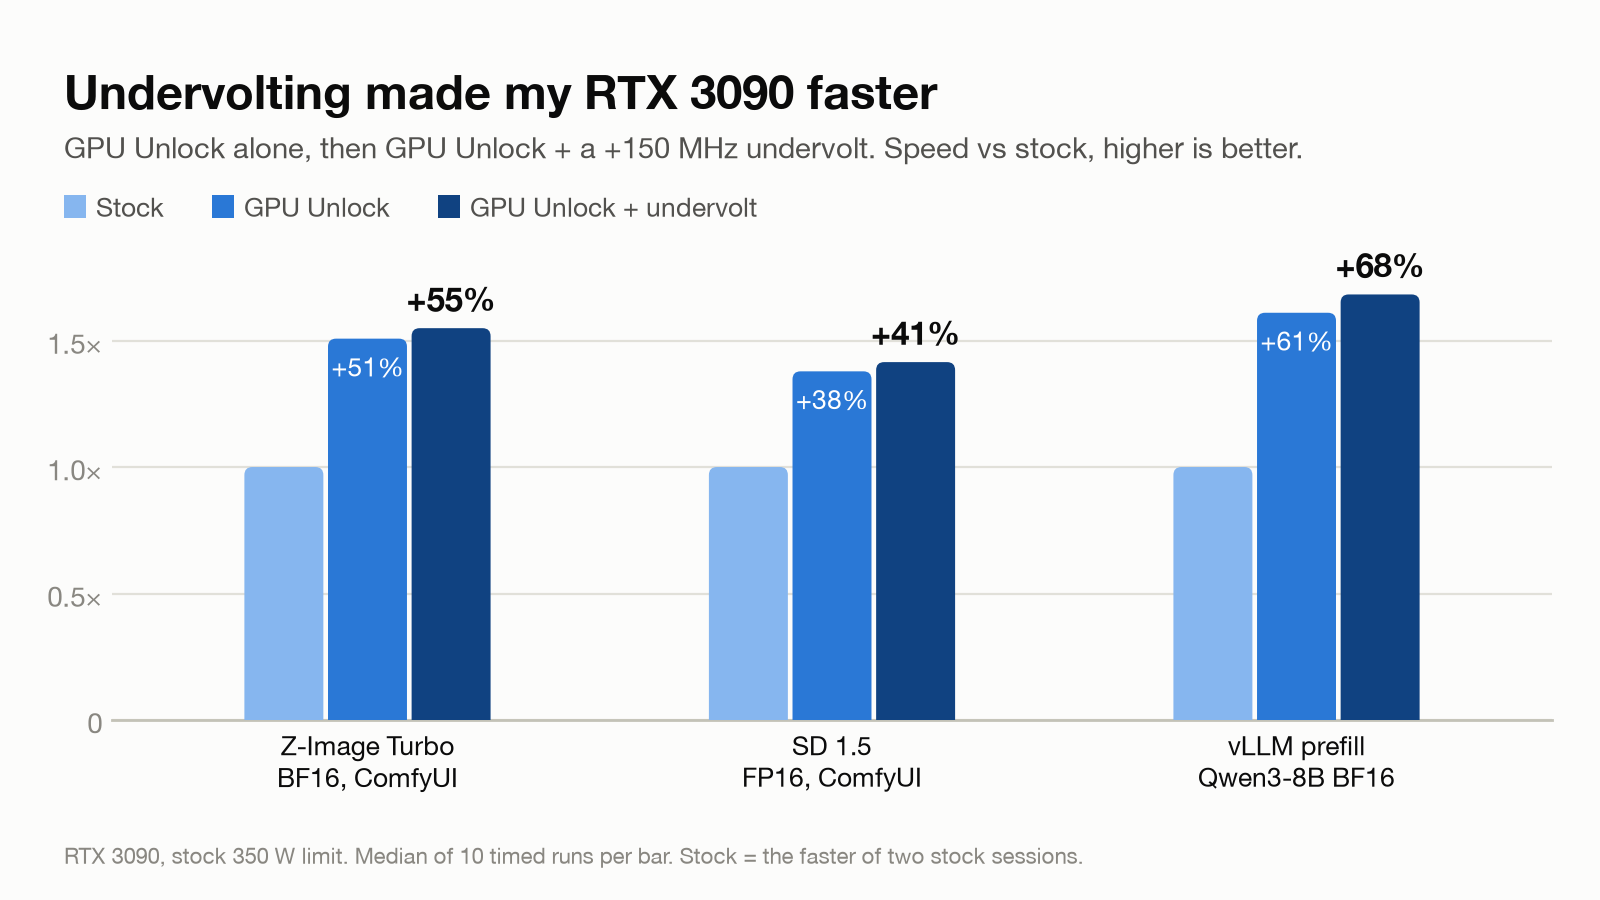
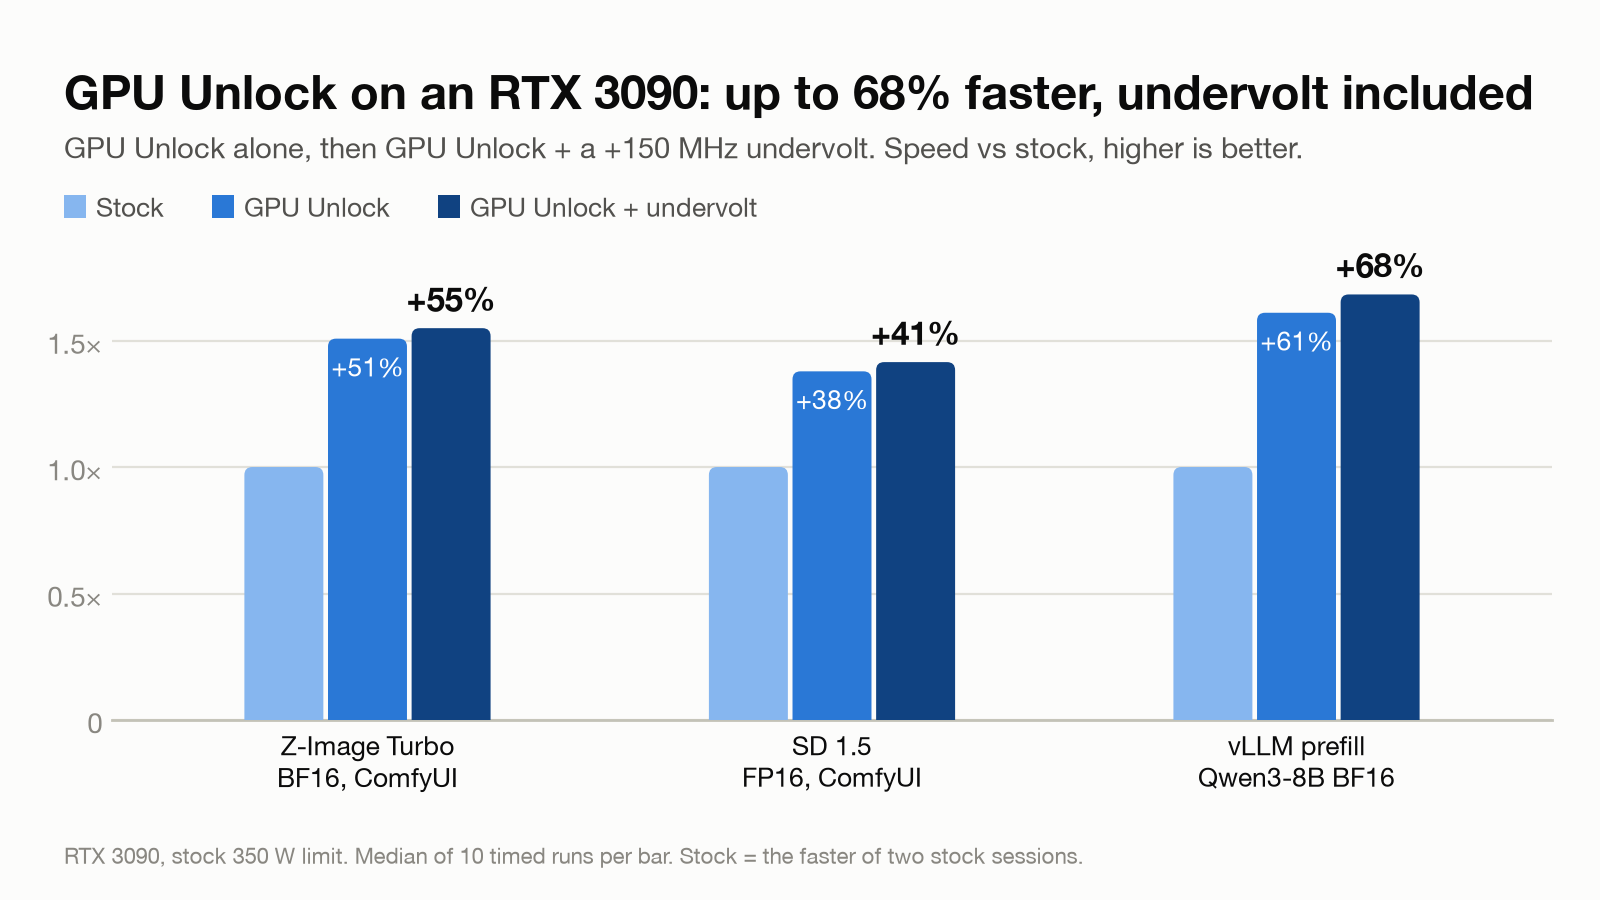
lead with the unlock: retitle the write-up and headline chart

Changed region(s): [[0.0312, 0.0622, 0.9688, 0.1244]]

diff --git a/charts/make_charts.py b/charts/make_charts.py
@@ -119,7 +119,7 @@ def pct(x):
 
 
 def headline(data):
-    fig = frame("Undervolting made my RTX 3090 faster",
+    fig = frame("GPU Unlock on an RTX 3090: up to 68% faster, undervolt included",
                 "GPU Unlock alone, then GPU Unlock + a +150 MHz undervolt. Speed vs stock, higher is better.",
                 "RTX 3090, stock 350 W limit. Median of 10 timed runs per bar. Stock = the faster of two stock sessions.")
     ax = fig.add_axes([0.07, 0.2, 0.9, 0.52])

diff --git a/README.md b/README.md
@@ -1,8 +1,8 @@
-# Undervolting made my 3090 faster: GPU Unlock + a +150 MHz undervolt
+# A free kernel module made my RTX 3090 generate images 55% faster with 40% less energy
 
-[GPU Unlock](https://github.com/Zagitta/gpu-unlock) lifts the GeForce throttle on FP16/BF16 tensor-core math with FP32 accumulation on Ampere cards. On my RTX 3090 it made Z-Image Turbo 51% faster, SD 1.5 38% faster and vLLM prefill 61% faster. Adding my existing +150 MHz undervolt on top made all three faster still: **+55%, +41% and +68%**, at about **40% less energy per output**. Every hashed output stayed bit-identical to stock, including a 2-hour soak of 540 image batches.
+[GPU Unlock](https://github.com/Zagitta/gpu-unlock) is a small open-source Linux kernel module that lifts the GeForce throttle on FP16/BF16 tensor-core math (with FP32 accumulation) on RTX 30-series cards. On my RTX 3090 it made Z-Image Turbo **51% faster**, SD 1.5 **38% faster** and vLLM prompt processing **61% faster**. Every hashed output stayed bit-identical to stock, including a 2-hour soak of 540 image batches.
 
-Without the unlock, the same undervolt made the card 3–6% *slower*.
+The surprise: my +150 MHz undervolt, which made the card 3–6% *slower* at stock, made it *faster* once unlocked. With both: **+55% Z-Image, +41% SD 1.5, +68% prefill**, at about **40% less energy per output**. [Why the undervolt helps](#why-the-undervolt-helps).
 
 ![Speed vs stock: Z-Image +51% unlocked, +55% unlocked and undervolted; SD 1.5 +38% / +41%; vLLM prefill +61% / +68%](charts/speedup.png)
 
